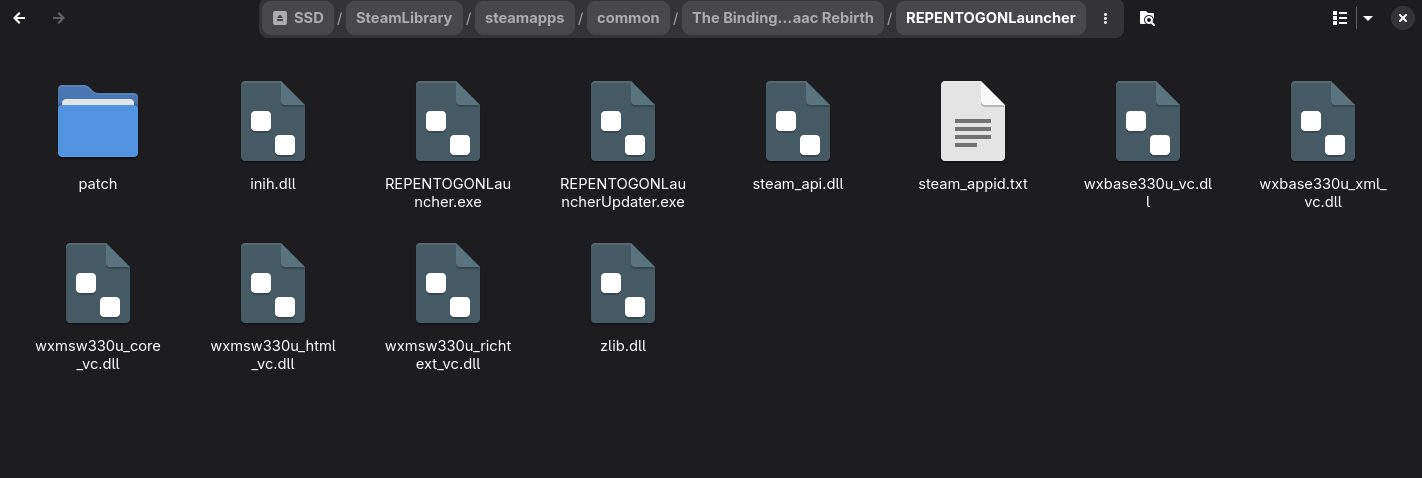
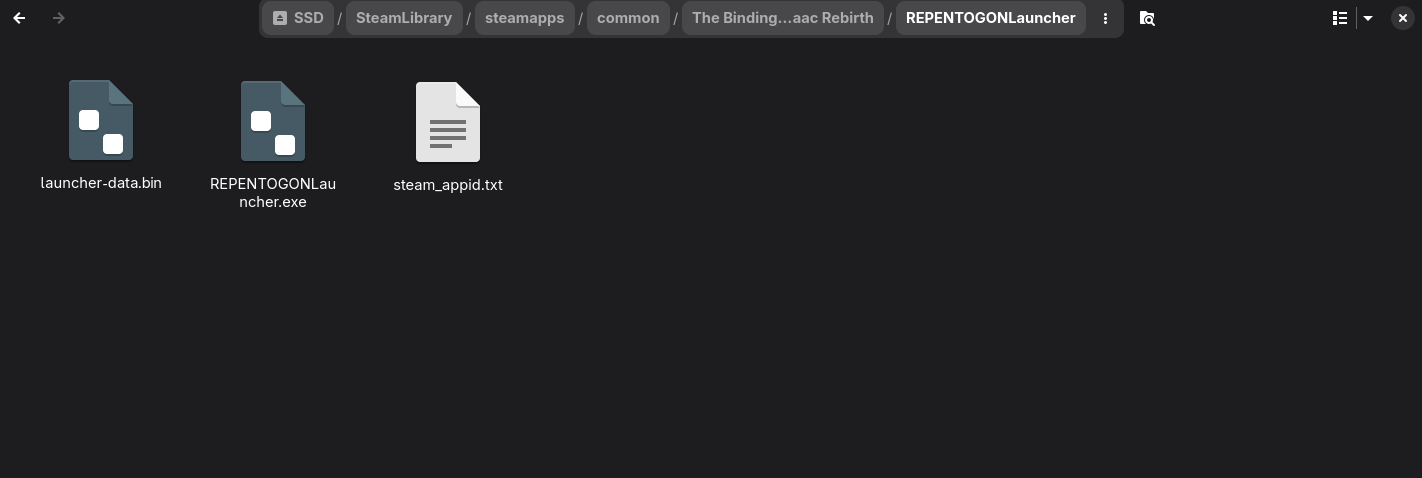
Tweaks to the installation guide

diff --git a/docs/docs/install.md b/docs/docs/install.md
@@ -20,8 +20,15 @@ There are two ways you may obtain the REPENTOGON Launcher- either by downloading
 
 ### Manually
 * Download the [REPENTOGON Launcher](https://github.com/TeamREPENTOGON/Launcher/releases/latest)
-* Extract the REPENTOGON Launcher to a directory of your choosing, *except* directly into Isaac's installation folder, or into a folder named `repentogon` in the Isaac installation folder
-    * These folders need to be accessed or modified by the launcher later, so it cannot reside there
+* Extract the REPENTOGON Launcher into a directory of your choosing. The launcher can be placed *almost* anywhere, but a couple of things to note:
+    * Being placed inside a directory that is protected or synced to OneDrive may cause issues for the launcher (Desktop, Documents, etc.).
+    * If needed, a couple of reliable location options are:
+        1. Create a new folder at your drive root, such as `C:/REPENTOGONLauncher/`
+        1. Create a new folder specifically called "REPENTOGONLauncher" within Isaac's installation directory.
+            * For example: `.../steamapps/common/The Binding of Isaac Rebirth/REPENTOGONLauncher/`
+            * Do not extract the REPENTOGON Launcher directly into the game's installation due to possible file conflicts.
+            * Do not create a folder simply called "repentogon" within the game's installation, we will need that later.
+
 
 ### Automatically (upgrading from legacy version)
 * If you had a legacy installation of the Repentance version of REPENTOGON, it may have notified you about the Repentance+ update, automatically downloaded the Launcher, and created a shortcut on your desktop. If needed, you can find the Launcher's files in your Isaac installation directory, under the `REPENTOGONLauncher` subfolder
@@ -49,11 +56,12 @@ There are two ways you may obtain the REPENTOGON Launcher- either by downloading
 
 
 ???+ info
-    If the installation fails, or the Launcher reports that the installation is corrupt, you may need to try one of the following:
+    If the installation fails, the game crashes instantly on launch, or the Launcher reports that the installation is corrupt, try the following:
 
-    * Click `Choose exe` in the main Launcher window to repeat first-time setup
-    * Click `Advanced options...` in the main Launcher window, then select `Re-install/Repair REPENTOGON`
-    * If both of those fail, navigate to the game's installation folder, delete the `repentogon` subfolder and launch the launcher again
+    * Click `Choose exe` in the main Launcher window to repeat first-time setup, and make sure the correct Isaac executable is selected
+    * Verify the integrity of your vanilla installation with Steam: https://help.steampowered.com/en/faqs/view/0C48-FCBD-DA71-93EB
+        * If any files fail to validate and Steam starts redownloading them, wait for them to finish.
+    * Click `Update/Repair Installation` in the main Launcher window, then select `Re-install/Repair REPENTOGON`
 
 ## (Optional/RECOMMENDED) Launching REPENTOGON through Steam
 
@@ -89,6 +97,8 @@ If you wish, you can make it so that launching Isaac through Steam runs the REPE
     * If the folder already exists and already contains a `REPENTOGONLauncher.exe`, you may have received an automatic download of the Launcher from the legacy REPENTOGON updater used for the old Repentance version. This is fine, and you may skip the next step
 * Download the [REPENTOGON Launcher](https://github.com/TeamREPENTOGON/Launcher/releases/latest)
 * Extract the REPENTOGON Launcher into the newly created `REPENTOGONLauncher` subdirectory
+* The full path to the launcher should be `.../steamapps/common/The Binding of Isaac Rebirth/REPENTOGONLauncher/REPENTOGONLauncher.exe`
+    * Take care not to use the wrong folder name or nest the files into an additional folder.
 
 ![Linux launcher folder structure example](img/linux_launcher_example.png)
 
@@ -99,9 +109,15 @@ echo "%command%" | sed 's|isaac-ng.exe|REPENTOGONLauncher/REPENTOGONLauncher.exe
 ```
     * Launching Isaac through Steam will now launch the REPENTOGON Launcher instead
 
+* In the `Compatability` section, make sure that compatability is enabled and set to specifically `Proton 9.0-4`
+
 ![Linux launch options example](img/linux_launch_options_example.png)
 
 * Launch Isaac, which will run the REPENTOGON Launcher
+    * If nothing happens, double check everything again:
+        * The full path to the launcher should be `.../steamapps/common/The Binding of Isaac Rebirth/REPENTOGONLauncher/REPENTOGONLauncher.exe`
+        * Double check that the Steam Launch Params are *exactly* as shown above
+        * In the Properties for Isaac in Steam, under "Compatability", make sure compatability is enabled and set to specifically `Proton 9.0-4`
 
 ???+ info
     The Launcher will check for updates on startup. Please keep the launcher as up to date as possible to ensure proper functionality.
@@ -119,11 +135,12 @@ echo "%command%" | sed 's|isaac-ng.exe|REPENTOGONLauncher/REPENTOGONLauncher.exe
         * If a new update just released, try updating the launcher, and if that doesn't work, be patient! It may take us up to a day to release a new patch for that version.
 
 ???+ info
-    If the installation fails, or the Launcher reports that the installation is corrupt, you may need to try one of the following:
+    If the installation fails, the game crashes instantly on launch, or the Launcher reports that the installation is corrupt, try the following:
 
-    * Click `Choose exe` in the main Launcher window to repeat first-time setup
-    * Click `Advanced options...` in the main Launcher window, then select `Re-install/Repair REPENTOGON`
-    * If both of those fail, navigate to the game's installation folder, delete the `repentogon` subfolder and launch the launcher again
+    * Click `Choose exe` in the main Launcher window to repeat first-time setup, and make sure the correct Isaac executable is selected
+    * Verify the integrity of your vanilla installation with Steam: https://help.steampowered.com/en/faqs/view/0C48-FCBD-DA71-93EB
+        * If any files fail to validate and Steam starts redownloading them, wait for them to finish.
+    * Click `Update/Repair Installation` in the main Launcher window, then select `Re-install/Repair REPENTOGON`
 
 # Frequently Asked Questions
 
@@ -162,8 +179,9 @@ You may need to try the following:
 * **Be sure you followed the above installation instructions, *especially* if you use Linux or a Steam Deck!**
 * Restart the Launcher and make sure to accept any update prompts
 * Click `Choose exe` in the main Launcher window to repeat first-time setup, and make sure the correct Isaac executable is selected
-* Click `Advanced options...` in the main Launcher window, then select `Re-install/Repair REPENTOGON`
-* If all of the above fails, navigate to the game's installation folder, delete the `repentogon` subfolder and launch the launcher again
+* Verify the integrity of your vanilla installation with Steam: https://help.steampowered.com/en/faqs/view/0C48-FCBD-DA71-93EB
+    * If any files fail to validate and Steam starts redownloading them, wait for them to finish.
+* Click `Update/Repair Installation` in the main Launcher window, then select `Re-install/Repair REPENTOGON`
 
 If you still have issues, or if this issue occurs repeatedly, [feel free to reach out for help](#reporting--contact).
 
@@ -190,6 +208,15 @@ Thankfully, REPENTOGON allows you to freely import your missing achievements/unl
     * The import/export process will never remove existing achievements or progress. It will only unlock ones that are obtained in one version but missing on the other
 
 ![Save Import window](img/save_import_2.png)
+
+## My controller inputs are messed up!
+
+* For third-party controllers (such as 8BitDo), enable the Steam Input override for Isaac for the most consistent results.
+    * Note: You must close both Isaac AND the REPENTOGON Launcher entirely for this change to take effect.
+
+![Steam Input setting](img/steam_input_example.png)
+
+* You may also try going into the in-game control mapping menu and hit "Reset To Default".
 
 ## How do I use Basement Renovator with REPENTOGON?
 
